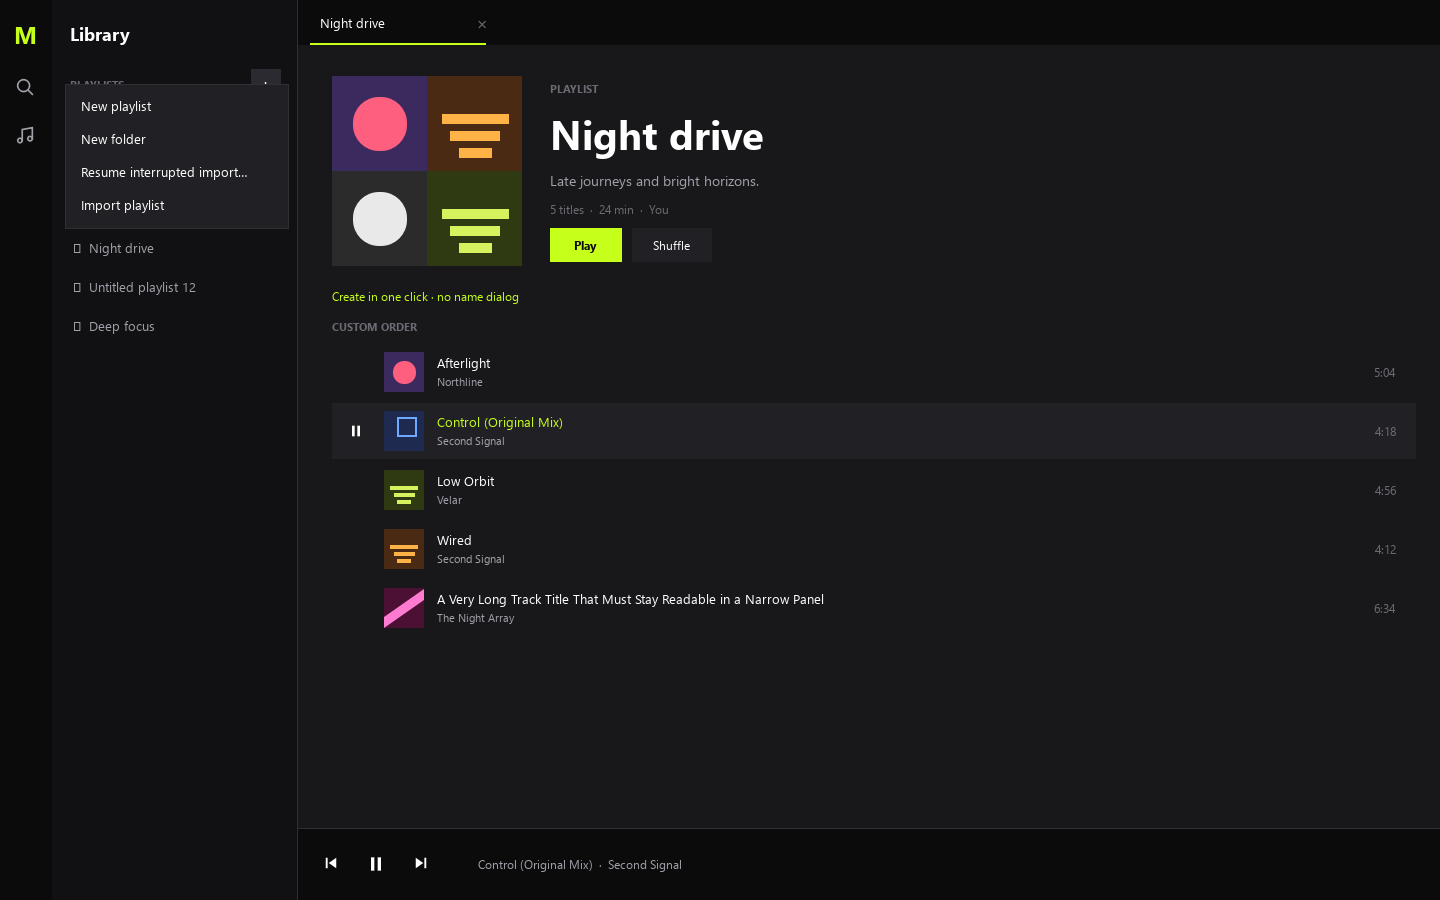
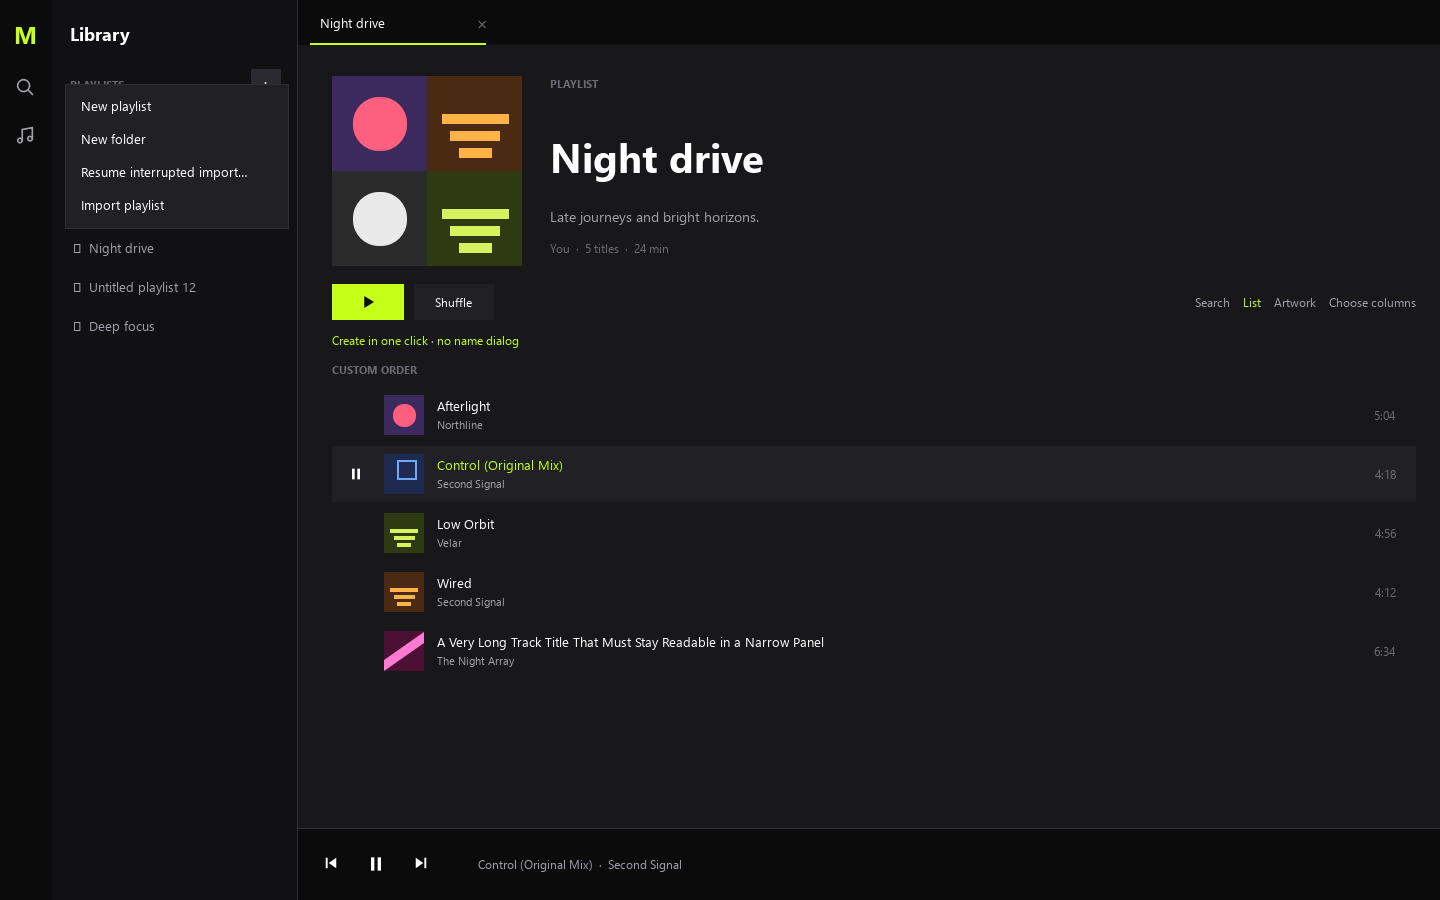
docs(ux): ajuster la maquette playlists 98 apres revue
Remplacer le mot Play par l'icone de l'application. Repartir type, titre, description et createur sur la hauteur de la pochette. Placer Play et Shuffle sous celle-ci, sur la ligne Search/List/Artwork/Choose columns. Regenerer les captures et consigner le retour utilisateur dans le plan et le dossier de revue.

Controles : douze scenes QML et deux tailles minimales rendues sans avertissement, capture Windows native, inspection visuelle a 1440 x 900 et 880 x 600, Ruff du lanceur, git diff --check et git diff --cached --check.

Limite : validation explicite de la maquette encore attendue avant le code fonctionnel 98.2-98.5.

diff --git a/docs/ux/mockups/Playlists98Review.qml b/docs/ux/mockups/Playlists98Review.qml
@@ -124,7 +124,7 @@ ApplicationWindow {
         Item {
             id: heading
             x: root.compact ? 22 : 34; y: 76
-            width: parent.width - x - 24; height: root.compact ? 172 : 198
+            width: parent.width - x - 24; height: largeCover.height
             PlaylistCover { id: largeCover; x: 0; y: 0; width: root.compact ? 152 : 190; height: width; covers: [] }
             Grid {
                 anchors.fill: largeCover; columns: 2
@@ -135,31 +135,49 @@ ApplicationWindow {
                 Text { anchors.centerIn: parent; text: "Change cover"; color: Theme.textPrimary; font.family: Theme.fontFamily; font.pixelSize: 14; font.bold: true }
             }
             MouseArea { anchors.fill: largeCover; hoverEnabled: true; onEntered: root.coverHovered = true; onExited: root.coverHovered = false; onClicked: root.coverHovered = true }
-            Column {
-                x: largeCover.width + 28; y: 5; width: parent.width - x; spacing: 11
-                Text { text: "PLAYLIST"; color: Theme.textMuted; font.family: Theme.fontFamily; font.pixelSize: 11; font.bold: true }
+            Item {
+                x: largeCover.width + 28; y: 0; width: parent.width - x; height: largeCover.height
+                Text { y: 0; text: "PLAYLIST"; color: Theme.textMuted; font.family: Theme.fontFamily; font.pixelSize: 11; font.bold: true }
                 Text {
-                    id: titleText; width: parent.width; text: scene === "creation-opened" ? "Untitled playlist 12" : "Night drive"
+                    id: titleText; y: root.compact ? 38 : 54; width: parent.width; text: scene === "creation-opened" ? "Untitled playlist 12" : "Night drive"
                     elide: Text.ElideRight; color: Theme.textPrimary; font.family: Theme.fontFamily
                     font.pixelSize: root.compact ? 30 : 40; font.bold: true
                     MouseArea { anchors.fill: parent; onClicked: root.editing = true }
                 }
-                Text { width: parent.width; text: "Late journeys and bright horizons."; elide: Text.ElideRight; color: Theme.textSecondary; font.family: Theme.fontFamily; font.pixelSize: 14 }
-                Text { text: "5 titles  ·  24 min  ·  You"; color: Theme.textMuted; font.family: Theme.fontFamily; font.pixelSize: 12 }
-                Row {
-                    spacing: 10
-                    Rectangle { width: 72; height: 34; color: Theme.primary; Text { anchors.centerIn: parent; text: "Play"; color: Theme.textOnColor; font.family: Theme.fontFamily; font.pixelSize: 12; font.bold: true } }
-                    Rectangle { width: 80; height: 34; color: Theme.surface; Text { anchors.centerIn: parent; text: "Shuffle"; color: Theme.textPrimary; font.family: Theme.fontFamily; font.pixelSize: 12 } }
+                Text { y: root.compact ? 99 : 131; width: parent.width; text: "Late journeys and bright horizons."; elide: Text.ElideRight; color: Theme.textSecondary; font.family: Theme.fontFamily; font.pixelSize: 14 }
+                Text { anchors.bottom: parent.bottom; anchors.bottomMargin: 10; text: "You  ·  5 titles  ·  24 min"; color: Theme.textMuted; font.family: Theme.fontFamily; font.pixelSize: 12 }
+            }
+        }
+        Item {
+            id: toolbar
+            x: heading.x; y: heading.y + heading.height + 18
+            width: heading.width; height: 36
+            Row {
+                x: 0; spacing: 10
+                Rectangle {
+                    width: 72; height: 36; color: Theme.primary
+                    Icon { anchors.centerIn: parent; name: "play"; color: Theme.textOnColor; size: 18 }
                 }
+                Rectangle {
+                    width: 80; height: 36; color: Theme.surface
+                    Text { anchors.centerIn: parent; text: "Shuffle"; color: Theme.textPrimary; font.family: Theme.fontFamily; font.pixelSize: 12 }
+                }
+            }
+            Row {
+                anchors.right: parent.right; anchors.verticalCenter: parent.verticalCenter; spacing: root.compact ? 8 : 13
+                Text { text: "Search"; color: Theme.textSecondary; font.family: Theme.fontFamily; font.pixelSize: 12 }
+                Text { text: "List"; color: root.artwork ? Theme.textSecondary : Theme.primary; font.family: Theme.fontFamily; font.pixelSize: 12 }
+                Text { text: "Artwork"; color: root.artwork ? Theme.primary : Theme.textSecondary; font.family: Theme.fontFamily; font.pixelSize: 12 }
+                Text { text: "Choose columns"; color: Theme.textSecondary; font.family: Theme.fontFamily; font.pixelSize: 12 }
             }
         }
         Text {
-            x: heading.x; y: heading.y + heading.height + 14
+            x: heading.x; y: toolbar.y + toolbar.height + 12
             text: root.caption(); color: Theme.primary; font.family: Theme.fontFamily; font.pixelSize: 12
         }
         Rectangle {
             id: listArea
-            x: heading.x; y: heading.y + heading.height + 45
+            x: heading.x; y: toolbar.y + toolbar.height + 42
             width: parent.width - x - 24; height: parent.height - y - 22
             color: "transparent"
             Text { x: 0; y: 0; text: root.artwork ? "ARTWORK" : "CUSTOM ORDER"; color: Theme.textMuted; font.family: Theme.fontFamily; font.pixelSize: 11; font.bold: true }

diff --git a/Plans d'exécution/98-playlists-glisser-deposer-play-pause.md b/Plans d'exécution/98-playlists-glisser-deposer-play-pause.md
@@ -65,6 +65,8 @@ Le graphe code-review-graph a été actualisé puis interrogé. La recherche gra
 
 2026-10-01 — Exécution 98.1 : douze scènes documentaires ont chargé et produit des captures sans avertissement QML. La revue visuelle initiale a montré des glyphes manquants dans les icônes Unicode et une barre de lecture de largeur nulle ; ces défauts ont été corrigés dans la maquette puis les captures concernées ont été refaites. Une capture native Windows a été produite. La maquette ne représente pas encore une interaction de drag réelle ; cette vérification appartient à 98.4.
 
+2026-10-01 — Retour utilisateur sur 98.1 : remplacer le mot Play par le pictogramme MTEE ; répartir `PLAYLIST`, titre, description et créateur sur la hauteur de la pochette ; placer Play/Shuffle sous celle-ci, alignés avec Search/List/Artwork. Maquette et captures corrigées, nouvelle validation attendue.
+
 ## Decision Log
 
 2026-10-01 — Utilisateur — Limiter les travaux aux features Notion 2, 3 et 4, avec le bonus d'édition par titre et de survol de pochette. Livrer le document dans `Plans d'exécution/`, numéro 98.
@@ -76,6 +78,8 @@ Le graphe code-review-graph a été actualisé puis interrogé. La recherche gra
 2026-10-01 — Codex, décisions techniques de planification — Calculer le nom dans la transaction d'insertion ; conserver les noms explicites d'import/duplication ; utiliser les identifiants d'entrée pour l'ordre et les identifiants de morceau pour l'ajout. Un état de déplacement temporaire commun à la fenêtre porte les indicateurs, sans écriture de fichier ni nouvelle dépendance. Les choix de géométrie indiqués plus bas sont des propositions techniques à vérifier dans la maquette, pas des exigences supplémentaires de l'utilisateur.
 
 2026-10-01 — Codex, exécution 98.1 — Réutiliser `Theme`, `Icon`, `CoverArt` et `PlaylistCover` pour la maquette isolée ; montrer la mosaïque avec quatre motifs fictifs et réserver 32 px avant les pochettes. Le lanceur fournit les scènes demandées plus les variantes Resume et pause. La fixture de 98.2 comportera six WAV synthétiques de plusieurs secondes, tags distincts, couvertures variées, un titre long, des dossiers virtuels et une référence absente ; son script refusera un dossier de données non vide.
+
+2026-10-01 — Utilisateur, revue 98.1 — Exiger l'icône Play classique de l'application et un en-tête dont les textes sont distribués du haut au bas de la pochette, avec les commandes sous la pochette alignées sur les filtres et les vues.
 
 ## Outcomes & Retrospective
 

diff --git a/docs/ux/review-98-playlists.md b/docs/ux/review-98-playlists.md
@@ -21,6 +21,10 @@ Le lanceur accepte `--scene`, `--width`, `--height` et `--output`. Les dimension
 
 La [grille Artwork à 880 × 600](playlists-98-2026-10-01/insert-artwork-880x600.png) illustre le retour à la ligne et le trait d'insertion vertical. La carte sous l'étiquette reste lisible après disparition du proxy ; pendant le geste, l'étiquette montre le lot sans déplacer les cartes.
 
+## Révision après retour utilisateur — 2026-10-01
+
+Le bouton sous la pochette utilise maintenant l'icône Play SVG de MTEE au lieu du mot « Play ». Le mot `PLAYLIST` commence au bord supérieur de la grande pochette, le titre occupe sa zone centrale, la description se place sous le titre et le créateur reste près du bas avec une marge de 10 px. Play et Shuffle sont sous la pochette ; Search, List, Artwork et Choose columns occupent la même ligne à droite, y compris à 880 px. Les douze scènes et les deux captures à 880 × 600 ont été régénérées après cette révision, ainsi que la capture Windows native.
+
 ## Vérifications et limites
 
 Les douze scènes ont chargé sans avertissement QML et leurs captures hors écran ont été produites le 2026-10-01. La capture native `playback-states-native-1440x900.png` a aussi été produite sous Windows. Les premières captures ont révélé des glyphes manquants et un lecteur bas de page de largeur nulle ; la maquette a été corrigée avec les icônes MTEE et une largeur explicite, puis les scènes concernées ont été recapturées. Les captures ont été inspectées pour la lisibilité, les bordures, le placement et la taille minimale.
